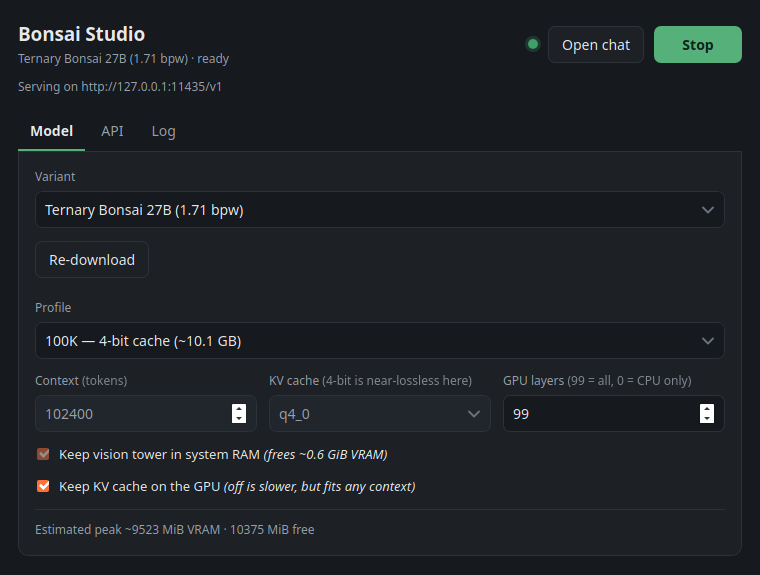
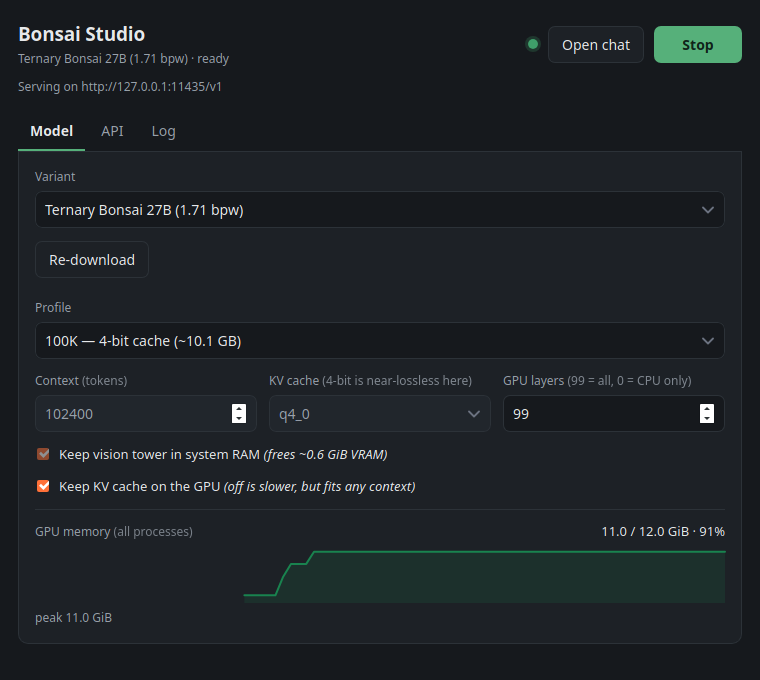
Add a GPU memory sparkline to the settings panel
A small live chart of device memory, with the current value, the peak and
a hover readout for any point in the window.

The y-scale is pinned to 0..total rather than fitted to the data:
auto-scaling a utilisation plot turns a flat 91% into a dramatic mountain
range and hides how much headroom is left, which is the one thing the
chart exists to show. Newest sample sits at the right edge so "now" does
not move while the buffer fills.

Data marks use their own colour tokens rather than the UI accent, which
falls outside the lightness band that keeps a plotted line legible --
#19834f on light, #45a771 on dark, both validated against their surface.

The readout reads nvidia-smi, so it appears only on NVIDIA systems; Apple
Silicon, AMD and Intel run through Metal or Vulkan and get no readout
rather than zeroes.

The pre-flight VRAM estimate now hides while the server is running. It
answers "will this fit" before starting, and leaving a stale "N MiB free"
directly above a live graph read as a contradiction.

diff --git a/app/src/main.js b/app/src/main.js
@@ -213,6 +213,11 @@ async function pollStatus() {
 
   $("open-chat").disabled = status.state !== "ready";
 
+  // The estimate answers "will this fit" before starting. Once the server is
+  // up, the live graph below is the real answer, and leaving a pre-flight
+  // "N MiB free" next to it reads as a contradiction.
+  $("vram").classList.toggle("hidden", running);
+
   const log = $("log");
   const pinned = log.scrollTop + log.clientHeight >= log.scrollHeight - 24;
   log.textContent = status.log.join("\n");
@@ -290,8 +295,107 @@ $("copy-url").addEventListener("click", async () => {
 });
 $("open-chat").addEventListener("click", () => invoke("open_chat").catch(showAlert));
 
+
+// --- GPU memory sparkline ----------------------------------------------------
+//
+// One series over time, so no legend: the caption names it. The y-scale is
+// pinned to 0..total rather than fitted to the data -- auto-scaling a
+// utilisation plot turns a flat 78% into a dramatic mountain range and hides
+// how much headroom is actually left.
+
+const GPU_CAP = 90;          // samples retained; at ~0.7s each, about a minute
+const GPU_W = 320;
+const GPU_H = 56;
+
+let gpuSamples = [];
+let gpuHover = null;
+
+// Newest sample pinned to the right edge, older ones trailing left. Anchoring
+// at the left instead makes a partly-filled buffer look like a chart that
+// stops halfway, and moves "now" every tick until it fills.
+function gpuX(i, n) {
+  return GPU_W - (n - 1 - i) * (GPU_W / (GPU_CAP - 1));
+}
+
+function gpuPath(samples, total, close) {
+  if (!samples.length || !total) return "";
+  const n = samples.length;
+  const x = (i) => gpuX(i, n);
+  const y = (v) => GPU_H - Math.max(0, Math.min(1, v / total)) * GPU_H;
+  const pts = samples.map((s, i) => `${x(i).toFixed(1)},${y(s.used).toFixed(1)}`);
+  let d = `M${pts.join(" L")}`;
+  if (close) {
+    d += ` L${x(samples.length - 1).toFixed(1)},${GPU_H} L${x(0).toFixed(1)},${GPU_H} Z`;
+  }
+  return d;
+}
+
+const gb = (mib) => (mib / 1024).toFixed(1);
+
+function renderGpu() {
+  const fig = $("gpu");
+  if (!gpuSamples.length) {
+    fig.classList.add("hidden");
+    return;
+  }
+  fig.classList.remove("hidden");
+
+  const total = gpuSamples[gpuSamples.length - 1].total;
+  $("gpu-line").setAttribute("d", gpuPath(gpuSamples, total, false));
+  $("gpu-area").setAttribute("d", gpuPath(gpuSamples, total, true));
+
+  // Hovering reads that sample; otherwise the headline is the live value.
+  const shown = gpuHover !== null ? gpuSamples[gpuHover] : gpuSamples[gpuSamples.length - 1];
+  const pct = total ? Math.round((shown.used / total) * 100) : 0;
+  $("gpu-value").textContent = `${gb(shown.used)} / ${gb(total)} GiB \u00b7 ${pct}%`;
+
+  const peak = gpuSamples.reduce((m, s) => Math.max(m, s.used), 0);
+  if (gpuHover !== null) {
+    const agoMs = gpuSamples[gpuSamples.length - 1].t - shown.t;
+    const ago = agoMs < 1000 ? "now" : `${Math.round(agoMs / 1000)}s ago`;
+    $("gpu-foot").textContent = `${ago} \u00b7 peak ${gb(peak)} GiB`;
+  } else {
+    $("gpu-foot").textContent = `peak ${gb(peak)} GiB`;
+  }
+}
+
+async function pollGpu() {
+  const s = await invoke("gpu_sample");
+  // No NVIDIA GPU (Apple Silicon, AMD, Intel) -- hide rather than show zeroes.
+  if (!s) {
+    gpuSamples = [];
+    renderGpu();
+    return;
+  }
+  gpuSamples.push({ used: s.used_mib, total: s.total_mib, t: Date.now() });
+  if (gpuSamples.length > GPU_CAP) gpuSamples.shift();
+  renderGpu();
+}
+
+$("gpu-plot").addEventListener("mousemove", (e) => {
+  if (!gpuSamples.length) return;
+  const rect = e.currentTarget.getBoundingClientRect();
+  const ratio = (e.clientX - rect.left) / rect.width;
+  const slotsFromRight = Math.round((1 - ratio) * (GPU_CAP - 1));
+  const i = gpuSamples.length - 1 - slotsFromRight;
+  gpuHover = Math.max(0, Math.min(gpuSamples.length - 1, i));
+  const cursor = $("gpu-cursor");
+  const x = gpuX(gpuHover, gpuSamples.length);
+  cursor.setAttribute("x1", x);
+  cursor.setAttribute("x2", x);
+  cursor.style.display = "";
+  renderGpu();
+});
+
+$("gpu-plot").addEventListener("mouseleave", () => {
+  gpuHover = null;
+  $("gpu-cursor").style.display = "none";
+  renderGpu();
+});
+
 (async function init() {
   settings = await invoke("get_settings");
+  await pollGpu();
   await refreshModels();
   render();
   await pollStatus();
@@ -299,5 +403,6 @@ $("open-chat").addEventListener("click", () => invoke("open_chat").catch(showAle
   setInterval(async () => {
     await pollDownload();
     await pollStatus();
+    await pollGpu();
   }, 700);
 })();

diff --git a/app/src/style.css b/app/src/style.css
@@ -119,6 +119,23 @@ input:focus-visible, select:focus-visible {
 .vram { font-size: 12px; color: var(--muted); border-top: 1px solid var(--line); padding-top: 11px; }
 .vram.warn { color: var(--warn-ink); background: var(--warn-bg); border: none; border-radius: 7px; padding: 9px 11px; }
 
+/* Data marks get their own tokens: the UI accent sits outside the lightness
+   band that keeps a plotted line legible on each surface. Both steps validated
+   against the chart surface in light and dark. */
+:root { --series: #19834f; --series-soft: rgba(25, 131, 79, 0.16); --capacity: #c9c5bd; }
+
+.gpu { margin: 0; border-top: 1px solid var(--line); padding-top: 12px; display: flex; flex-direction: column; gap: 6px; }
+.gpu-head { display: flex; align-items: baseline; justify-content: space-between; gap: 10px; }
+.gpu-title { font-size: 12px; color: var(--muted); }
+.gpu-title em { font-style: normal; opacity: 0.75; }
+.gpu-value { font-size: 13px; font-variant-numeric: tabular-nums; color: var(--ink); }
+.gpu-plot { width: 100%; height: 56px; display: block; overflow: visible; cursor: crosshair; }
+.gpu-area { fill: var(--series-soft); stroke: none; }
+.gpu-line { fill: none; stroke: var(--series); stroke-width: 2; stroke-linejoin: round; stroke-linecap: round;
+            vector-effect: non-scaling-stroke; }
+.gpu-cursor { stroke: var(--muted); stroke-width: 1; stroke-dasharray: 2 2; vector-effect: non-scaling-stroke; }
+.gpu-frame { fill: none; stroke: var(--line); stroke-width: 1; vector-effect: non-scaling-stroke; }
+
 .download { display: flex; flex-direction: column; gap: 8px; }
 .download-head { display: flex; align-items: center; gap: 10px; flex-wrap: wrap; }
 .download-head .hint { flex: 1 1 auto; min-width: 0; overflow: hidden; text-overflow: ellipsis; white-space: nowrap; }

diff --git a/app/src/index.html b/app/src/index.html
@@ -66,6 +66,21 @@
   <label class="check"><input id="kv_offload" type="checkbox" /> <span>Keep KV cache on the GPU <em>(off is slower, but fits any context)</em></span></label>
 
   <div id="vram" class="vram"></div>
+
+  <figure id="gpu" class="gpu hidden">
+    <figcaption class="gpu-head">
+      <span class="gpu-title">GPU memory <em>(all processes)</em></span>
+      <span id="gpu-value" class="gpu-value"></span>
+    </figcaption>
+    <svg id="gpu-plot" class="gpu-plot" viewBox="0 0 320 56" preserveAspectRatio="none"
+         role="img" aria-labelledby="gpu-desc">
+      <title id="gpu-desc">GPU memory used over the last minute and a half</title>
+      <path id="gpu-area" class="gpu-area" d="" />
+      <path id="gpu-line" class="gpu-line" d="" />
+      <line id="gpu-cursor" class="gpu-cursor" x1="0" y1="0" x2="0" y2="56" style="display:none" />
+    </svg>
+    <span id="gpu-foot" class="hint"></span>
+  </figure>
 </section>
 
 <section class="panel hidden" data-panel="api">

diff --git a/app/src-tauri/src/vram.rs b/app/src-tauri/src/vram.rs
@@ -29,6 +29,37 @@ fn kv_divisor(kv_type: &str) -> u64 {
     }
 }
 
+/// A point-in-time reading of device 0.
+///
+/// These are device-wide figures, not this process's share: the desktop
+/// compositor and anything else on the card are included. That is the honest
+/// number for "will the next model load fit".
+#[derive(Debug, Clone, Copy, Serialize)]
+pub struct GpuSample {
+    pub used_mib: u64,
+    pub total_mib: u64,
+}
+
+/// None when there is no NVIDIA GPU to ask -- Apple Silicon, AMD and Intel all
+/// run this app happily through Metal or Vulkan, and none of them ship
+/// nvidia-smi. Callers hide the readout rather than showing zeroes.
+pub fn sample() -> Option<GpuSample> {
+    let out = std::process::Command::new("nvidia-smi")
+        .args(["--query-gpu=memory.used,memory.total", "--format=csv,noheader,nounits"])
+        .output()
+        .ok()?;
+    if !out.status.success() {
+        return None;
+    }
+    let text = String::from_utf8_lossy(&out.stdout);
+    let line = text.lines().next()?;
+    let (used, total) = line.split_once(',')?;
+    Some(GpuSample {
+        used_mib: used.trim().parse().ok()?,
+        total_mib: total.trim().parse().ok()?,
+    })
+}
+
 /// Free VRAM on device 0, via nvidia-smi. None if it is absent or unhappy --
 /// plenty of valid setups (Vulkan on AMD, CPU-only, macOS) have no nvidia-smi,
 /// and none of them should produce a scary warning.

diff --git a/app/src-tauri/src/lib.rs b/app/src-tauri/src/lib.rs
@@ -32,6 +32,12 @@ fn save_settings(mut next: Settings, state: tauri::State<AppState>) -> Result<Se
     Ok(next)
 }
 
+/// Live GPU memory for the utilisation readout. None hides it entirely.
+#[tauri::command]
+fn gpu_sample() -> Option<vram::GpuSample> {
+    vram::sample()
+}
+
 #[tauri::command]
 fn estimate_vram(state: tauri::State<AppState>) -> vram::VramEstimate {
     let s = state.settings.lock().unwrap();
@@ -168,6 +174,7 @@ pub fn run() {
             get_settings,
             save_settings,
             estimate_vram,
+            gpu_sample,
             generate_api_key,
             list_models,
             select_model,

diff --git a/app/README.md b/app/README.md
@@ -72,6 +72,23 @@ one holding a partial file, and only then to the configured model directory. The
 resolution has to be stable across a forced re-download — keying it off "is it
 installed" alone sends the retry somewhere else and strands the partial file.
 
+## GPU memory readout
+
+A sparkline under the settings tracks device memory while the app is open,
+with the current value, the peak, and a hover readout for any point in the
+window.
+
+The y-scale is pinned to 0..total rather than fitted to the data: auto-scaling
+a utilisation plot turns a flat 91% into a dramatic mountain range and hides
+how much headroom is actually left. Figures are device-wide, so the desktop
+compositor and anything else on the card are included -- that is the honest
+number for "will the next model load fit".
+
+It reads `nvidia-smi`, so it appears only on NVIDIA systems. Apple Silicon, AMD
+and Intel all run the app fine through Metal or Vulkan; there the readout is
+hidden rather than showing zeroes. The pre-flight VRAM estimate hides once the
+server is up, since the live graph is the better answer by then.
+
 ## Profiles
 
 Context size, KV cache type, and vision-tower placement have to move together;
